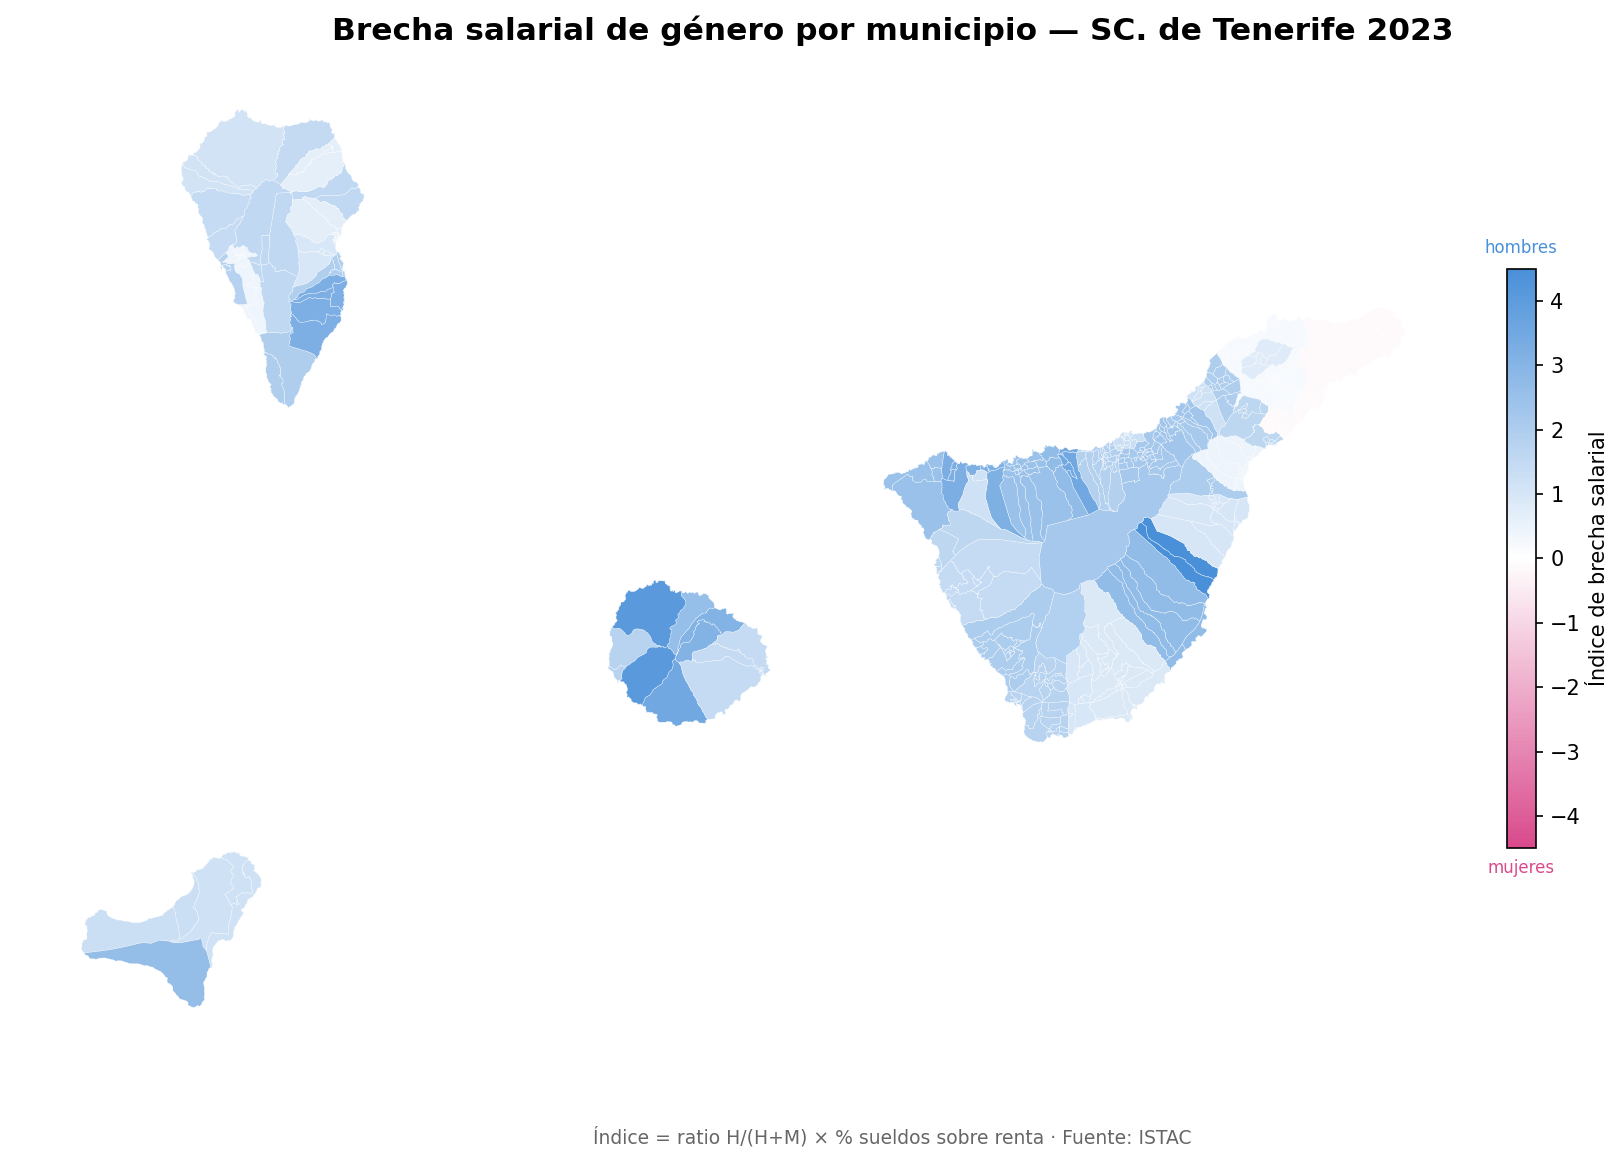
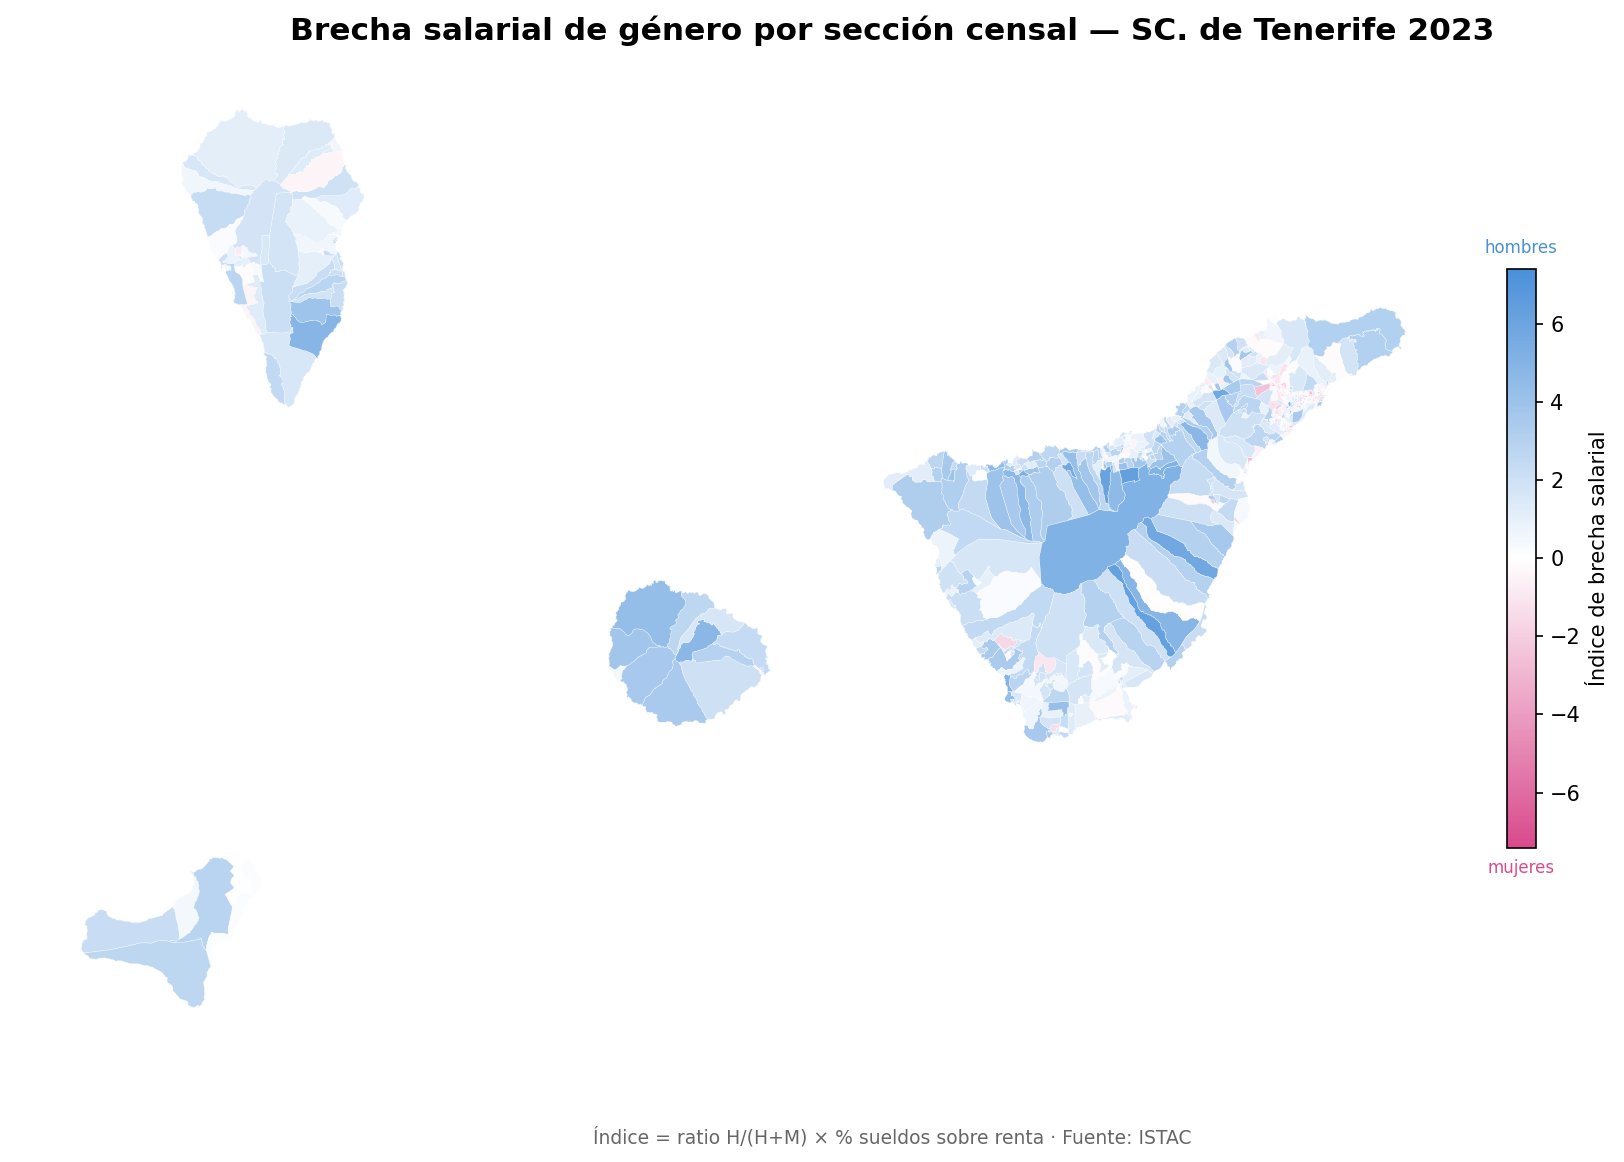
feat: habilitar calculo y coloreado por seccion censal en el mapa de brecha salarial

diff --git a/assets_proyecto5/plots_assets.py b/assets_proyecto5/plots_assets.py
@@ -196,7 +196,7 @@ def cargar_gdf_municipios(año: int, nivel: str = "municipio",
     if nivel == "municipio":
         return gdf.dissolve(by="municipio", as_index=False)[["municipio", "geometry"]]
     else:
-        return gdf[["municipio", "geometry"]].copy()
+        return gdf[["municipio", "geocode", "geometry"]].copy()
 
 
 def _calcular_indice_brecha(ocu: pd.DataFrame,
@@ -223,6 +223,28 @@ def _calcular_indice_brecha(ocu: pd.DataFrame,
     )
 
     merged = ocu_hm.merge(sal, on=["municipio", "año"], how="inner")
+    merged["indice_brecha"] = (merged["ratio_hm"] - 0.5) * merged["pct_salarios"]
+    return merged
+
+
+def _calcular_indice_brecha_seccion(ocu: pd.DataFrame,
+                                     dist: pd.DataFrame) -> pd.DataFrame:
+    ocu_hm = (
+        ocu[ocu["sexo"].isin(["Hombres", "Mujeres"]) & (ocu["ocupacion"] != "No consta")]
+        .groupby(["seccion_key", "año", "sexo"], as_index=False)["num_casos"].sum()
+        .pivot(index=["seccion_key", "año"], columns="sexo", values="num_casos")
+        .reset_index()
+    )
+    ocu_hm.columns.name = None
+    ocu_hm["ratio_hm"] = ocu_hm["Hombres"] / (ocu_hm["Hombres"] + ocu_hm["Mujeres"])
+
+    sal = (
+        dist[dist["MEDIDAS_CODE"] == "SUELDOS_SALARIOS"]
+        .groupby(["seccion_key", "año"], as_index=False)["OBS_VALUE"].median()
+        .rename(columns={"OBS_VALUE": "pct_salarios"})
+    )
+
+    merged = ocu_hm.merge(sal, on=["seccion_key", "año"], how="inner")
     merged["indice_brecha"] = (merged["ratio_hm"] - 0.5) * merged["pct_salarios"]
     return merged
 
@@ -436,6 +458,7 @@ def plot_mapa_brecha_salarial(context: AssetExecutionContext) -> None:
     """
     cfg      = get_plot_config()["brecha_salarial"]
     AÑO_MAPA = cfg.get("ano_mapa", 2023)
+    NIVEL    = cfg.get("nivel", "municipio")
 
     cmap_mapa = LinearSegmentedColormap.from_list(
         "rosa_blanco_azul", ["#D94A8C", "#ffffff", "#4A90D9"]
@@ -444,7 +467,14 @@ def plot_mapa_brecha_salarial(context: AssetExecutionContext) -> None:
     ocu  = pd.read_csv(get_processed_path(cfg["dataset_ocu"])).dropna(subset=["num_casos"])
     dist = pd.read_csv(get_processed_path(cfg["dataset_dist"])).dropna(subset=["OBS_VALUE"])
 
-    merged = _calcular_indice_brecha(ocu, dist)
+    if NIVEL == "seccion":
+        ocu = ocu.copy()
+        ocu["seccion_key"] = ocu["geocode"].astype(str).str.split("_", n=1).str[1]
+        dist = dist.copy()
+        dist["seccion_key"] = dist["TERRITORIO_CODE"].astype(str).str.split("_", n=1).str[1]
+        merged = _calcular_indice_brecha_seccion(ocu, dist)
+    else:
+        merged = _calcular_indice_brecha(ocu, dist)
 
     lim = max(abs(merged["indice_brecha"].min()), abs(merged["indice_brecha"].max()))
     if lim == 0:
@@ -452,7 +482,6 @@ def plot_mapa_brecha_salarial(context: AssetExecutionContext) -> None:
     else:
         norm = mcolors.TwoSlopeNorm(vmin=-lim, vcenter=0, vmax=lim)
 
-    NIVEL   = cfg.get("nivel", "municipio")
     gdf_mun = cargar_gdf_municipios(AÑO_MAPA, NIVEL, context.log)
     fig, ax = plt.subplots(figsize=(12, 8))
 
@@ -460,23 +489,39 @@ def plot_mapa_brecha_salarial(context: AssetExecutionContext) -> None:
         ax.set_title(f"{AÑO_MAPA} - Sin Datos Espaciales")
         ax.axis("off")
     else:
-        datos = merged[merged["año"] == AÑO_MAPA][["municipio", "indice_brecha"]].copy()
-
-        # Join con clave en minúsculas para evitar discrepancias de capitalización
-        datos["_key"] = datos["municipio"].str.lower()
-        gdf_p         = gdf_mun.copy()
-        gdf_p["_key"] = gdf_p["municipio"].str.lower()
-        gdf_p         = gdf_p.merge(
-            datos[["_key", "indice_brecha"]], on="_key", how="left"
-        ).drop(columns=["_key"])
-
-        # Diagnóstico
-        sin_dato = gdf_p[gdf_p["indice_brecha"].isna()]["municipio"].unique()
-        if len(sin_dato) > 0:
-            context.log.warning(
-                f"Municipios sin índice tras join ({len(sin_dato)}): "
-                f"{sorted(sin_dato)}"
+        if NIVEL == "seccion":
+            datos = merged[merged["año"] == AÑO_MAPA][["seccion_key", "indice_brecha"]].copy()
+            gdf_p = gdf_mun.copy()
+            gdf_p["seccion_key"] = gdf_p["geocode"].astype(str).str.split("_", n=1).str[1]
+            gdf_p = gdf_p.merge(
+                datos[["seccion_key", "indice_brecha"]], on="seccion_key", how="left"
             )
+
+            # Diagnóstico
+            sin_dato = gdf_p[gdf_p["indice_brecha"].isna()]["seccion_key"].unique()
+            if len(sin_dato) > 0:
+                context.log.warning(
+                    f"Secciones sin índice tras join ({len(sin_dato)}): "
+                    f"{sorted(sin_dato)}"
+                )
+        else:
+            datos = merged[merged["año"] == AÑO_MAPA][["municipio", "indice_brecha"]].copy()
+
+            # Join con clave en minúsculas para evitar discrepancias de capitalización
+            datos["_key"] = datos["municipio"].str.lower()
+            gdf_p         = gdf_mun.copy()
+            gdf_p["_key"] = gdf_p["municipio"].str.lower()
+            gdf_p         = gdf_p.merge(
+                datos[["_key", "indice_brecha"]], on="_key", how="left"
+            ).drop(columns=["_key"])
+
+            # Diagnóstico
+            sin_dato = gdf_p[gdf_p["indice_brecha"].isna()]["municipio"].unique()
+            if len(sin_dato) > 0:
+                context.log.warning(
+                    f"Municipios sin índice tras join ({len(sin_dato)}): "
+                    f"{sorted(sin_dato)}"
+                )
 
         tiene_indice = gdf_p["indice_brecha"].notna()
 
@@ -509,8 +554,9 @@ def plot_mapa_brecha_salarial(context: AssetExecutionContext) -> None:
     cbar.ax.text(0.5, 1.02, "hombres", transform=cbar.ax.transAxes,
                  ha="center", va="bottom", fontsize=8, color="#4A90D9")
 
+    nivel_label = "sección censal" if NIVEL == "seccion" else "municipio"
     fig.suptitle(
-        f"Brecha salarial de género por municipio — SC. de Tenerife {AÑO_MAPA}",
+        f"Brecha salarial de género por {nivel_label} — SC. de Tenerife {AÑO_MAPA}",
         fontsize=15, fontweight="bold", y=0.95)
     fig.text(
         0.5, 0.01,

diff --git a/assets_proyecto5/checks_p5.py b/assets_proyecto5/checks_p5.py
@@ -851,14 +851,15 @@ def check_datos_mapa_brecha(context):
     """
     Gestalt — Cierre: TwoSlopeNorm requiere valores + y − en el índice; si
     todos son positivos matplotlib lanza un error y el mapa no se genera.
-    Gestalt — Figura/Fondo: municipios con geometría vacía tras dissolve
-    producen centroides NaN y las anotaciones directas en el mapa fallan.
+    Gestalt — Figura/Fondo: municipios/secciones con geometría vacía o inválida
+    impiden el correcto dibujado y la asignación del mapa de color.
     """
     cfg      = get_plot_config()["brecha_salarial"]
     AÑO_MAPA = cfg.get("ano_mapa", 2023)
     N_ANOT   = cfg.get("n_anotaciones_mapa", 3)
+    NIVEL    = cfg.get("nivel", "municipio")
     passed = True
-    report_md = f"### Precondiciones: mapa_brecha_salarial (año={AÑO_MAPA})\n\n"
+    report_md = f"### Precondiciones: mapa_brecha_salarial (año={AÑO_MAPA}, nivel={NIVEL})\n\n"
 
     gjson = get_geojson_path(f"secciones_{AÑO_MAPA}0101_tenerife.json")
     ok    = os.path.exists(gjson)
@@ -869,27 +870,51 @@ def check_datos_mapa_brecha(context):
         try:
             gdf = gpd.read_file(gjson).set_crs("EPSG:4326", allow_override=True)
             gdf["municipio"] = gdf["etiqueta"].str.extract(r"- (.+)$")
-            gdf_d = gdf.dissolve(by="municipio", as_index=False)
-            n_mun = int(gdf_d["municipio"].nunique())
-            ok2   = n_mun >= 30
-            passed = passed and ok2
-            report_md += f"- Municipios tras dissolve ≥ 30: {'🟢' if ok2 else '🔴'} ({n_mun})\n"
+            
+            if NIVEL == "seccion":
+                n_sec = len(gdf)
+                ok2 = n_sec >= 100
+                passed = passed and ok2
+                report_md += f"- Secciones en GeoJSON ≥ 100: {'🟢' if ok2 else '🔴'} ({n_sec})\n"
+                
+                inv = int((~gdf.geometry.is_valid).sum())
+                ok3 = inv == 0
+                passed = passed and ok3
+                report_md += f"- Geometrías de secciones válidas: {'🟢' if ok3 else '🔴'} ({inv} inválidas)\n"
+            else:
+                gdf_d = gdf.dissolve(by="municipio", as_index=False)
+                n_mun = int(gdf_d["municipio"].nunique())
+                ok2   = n_mun >= 30
+                passed = passed and ok2
+                report_md += f"- Municipios tras dissolve ≥ 30: {'🟢' if ok2 else '🔴'} ({n_mun})\n"
 
-            inv = int((~gdf_d.geometry.is_valid).sum())
-            ok3 = inv == 0
-            passed = passed and ok3
-            report_md += f"- Geometrías válidas: {'🟢' if ok3 else '🔴'} ({inv} inválidas)\n"
+                inv = int((~gdf_d.geometry.is_valid).sum())
+                ok3 = inv == 0
+                passed = passed and ok3
+                report_md += f"- Geometrías válidas: {'🟢' if ok3 else '🔴'} ({inv} inválidas)\n"
 
-            # Centroides calculables para las anotaciones
-            centroides_nan = int(gdf_d.geometry.centroid.isna().sum())
-            ok4 = centroides_nan == 0
-            passed = passed and ok4
-            report_md += f"- Centroides calculables ({N_ANOT} anotaciones): {'🟢' if ok4 else '🔴'} ({centroides_nan} NaN)\n"
+                # Centroides calculables para las anotaciones
+                centroides_nan = int(gdf_d.geometry.centroid.isna().sum())
+                ok4 = centroides_nan == 0
+                passed = passed and ok4
+                report_md += f"- Centroides calculables ({N_ANOT} anotaciones): {'🟢' if ok4 else '🔴'} ({centroides_nan} NaN)\n"
         except Exception as e:
             report_md += f"- Error GeoJSON: ⚠ {e}\n"
 
-    merged  = _indice_brecha(cfg)
-    idx_año = merged[merged["año"] == AÑO_MAPA]["indice"]
+    if NIVEL == "seccion":
+        ocu  = pd.read_csv(get_processed_path(cfg["dataset_ocu"])).dropna(subset=["num_casos"]).copy()
+        dist = pd.read_csv(get_processed_path(cfg["dataset_dist"])).dropna(subset=["OBS_VALUE"]).copy()
+        ocu["seccion_key"] = ocu["geocode"].astype(str).str.split("_", n=1).str[1]
+        dist["seccion_key"] = dist["TERRITORIO_CODE"].astype(str).str.split("_", n=1).str[1]
+        
+        from plots_assets import _calcular_indice_brecha_seccion
+        merged = _calcular_indice_brecha_seccion(ocu, dist)
+        idx_col = "indice_brecha"
+    else:
+        merged  = _indice_brecha(cfg)
+        idx_col = "indice"
+
+    idx_año = merged[merged["año"] == AÑO_MAPA][idx_col]
     ok = bool((idx_año > 0).any()) and bool((idx_año < 0).any())
     passed = passed and ok
     report_md += f"- TwoSlopeNorm viable (+ y − en {AÑO_MAPA}): {'🟢' if ok else '🔴'}\n"
